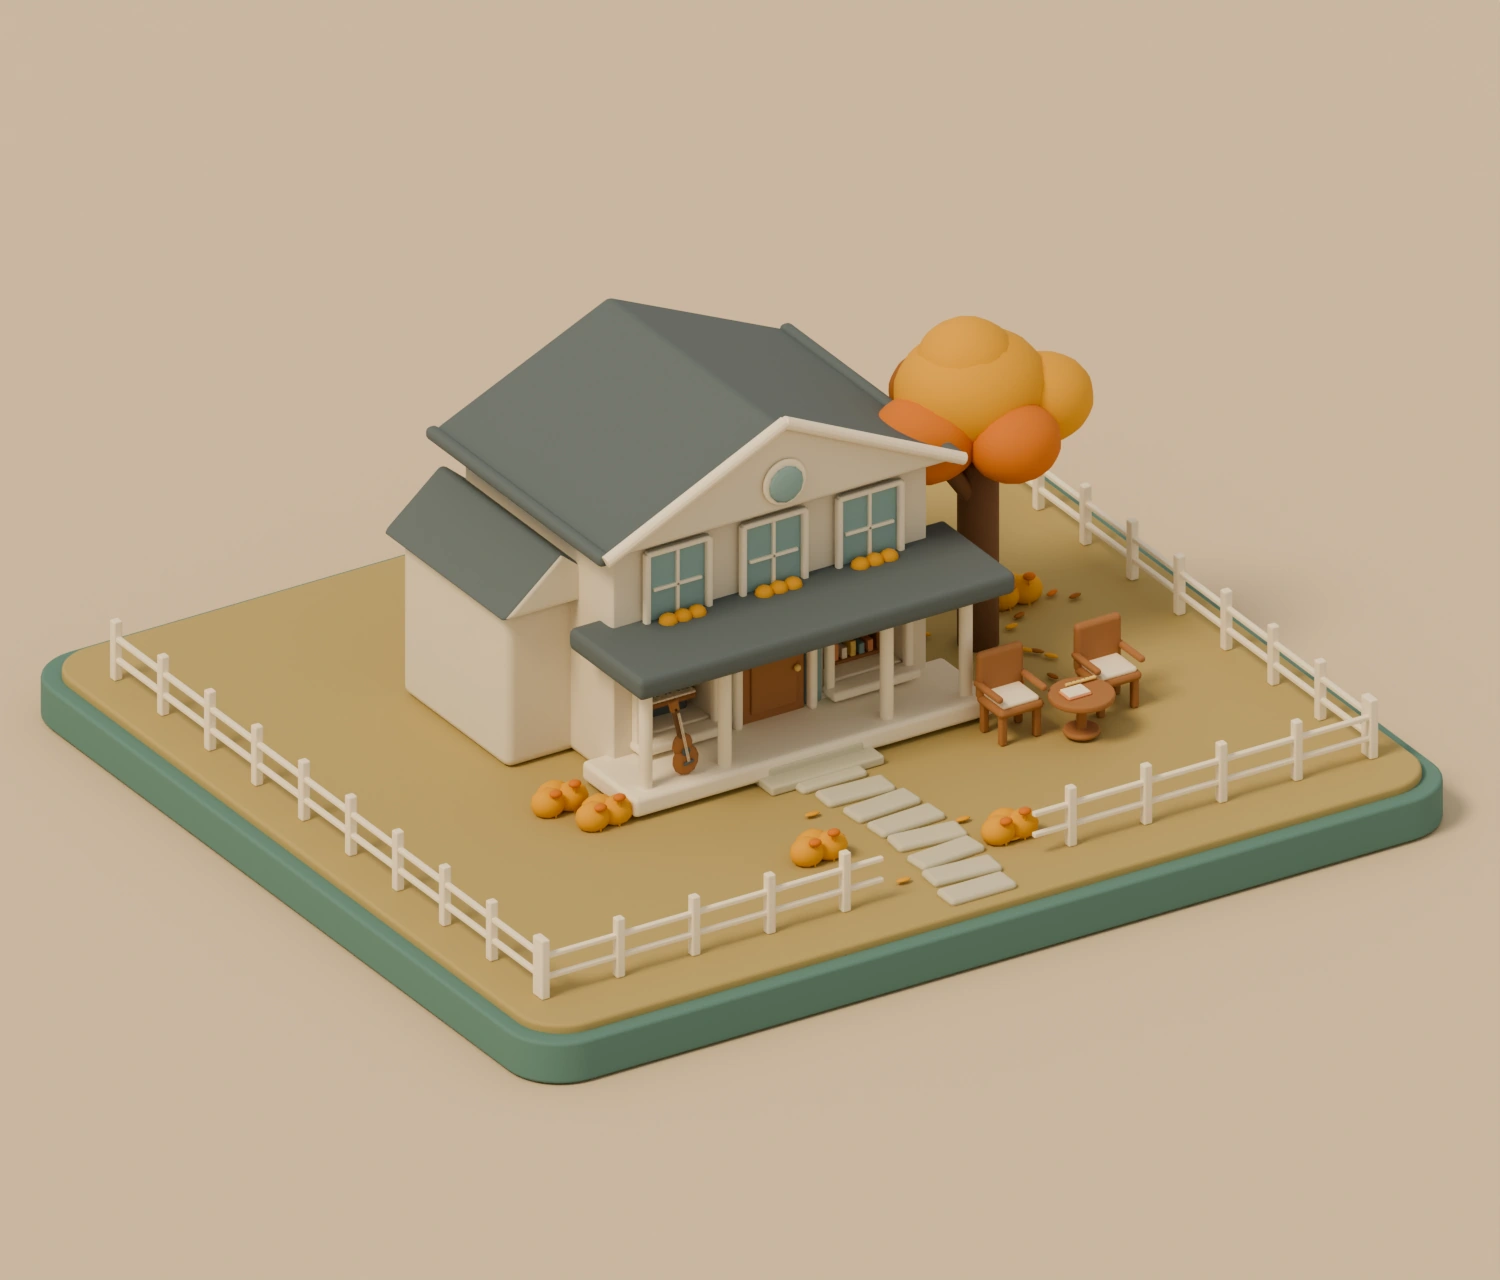
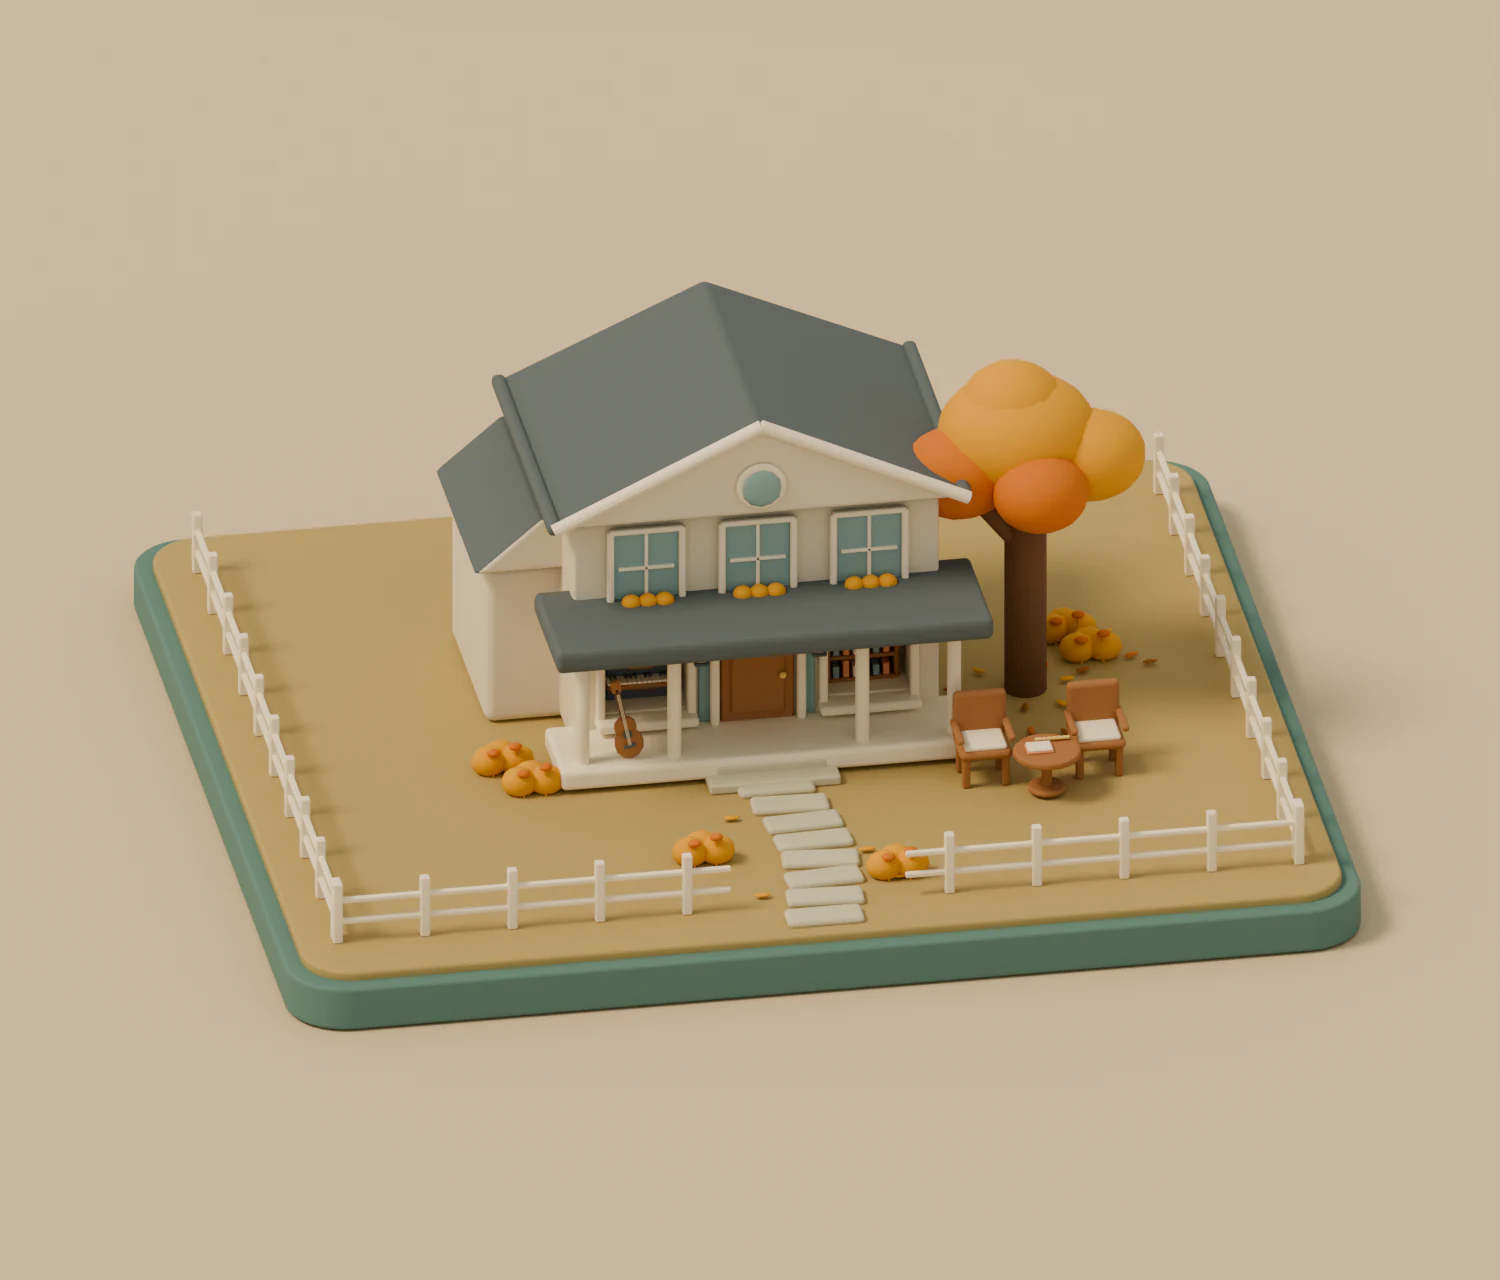
Update seasonal experience, interactions and responsive design

Changed region(s): [[0.0, 0.2188, 0.9813, 0.875]]

diff --git a/motion.css b/motion.css
@@ -1,7 +1,7 @@
 /* Low-amplitude motion; all layout dimensions remain in index.html. */
 .page{transition:color .7s ease;isolation:isolate}.ambient-layer{position:absolute;inset:0;z-index:0;pointer-events:none}.copy,.top,.controls,.foot{transition:color .7s ease}.visual{transform:translate(var(--px,0px),var(--py,0px));transition:transform 1.4s cubic-bezier(.2,.6,.25,1)}
 .house-breath{position:relative;width:100%;height:100%;animation:house-breath 9s ease-in-out infinite}.house-breath>#house{position:absolute;inset:0}.tree-breeze{position:absolute;inset:0;pointer-events:none;transform-origin:67% 43%;animation:tree-breeze 7.5s ease-in-out infinite;mask-image:radial-gradient(ellipse 10% 12% at 66.5% 30%,#000 58%,transparent 95%);-webkit-mask-image:radial-gradient(ellipse 10% 12% at 66.5% 30%,#000 58%,transparent 95%)}.visual .tree-breeze img{mask-image:none;-webkit-mask-image:none;width:100%;height:100%}
-.window-glow{position:absolute;inset:0;pointer-events:none;mix-blend-mode:screen;animation:window-breath 8s ease-in-out infinite;opacity:.045;background:radial-gradient(ellipse 1.5% 2.4% at 45% 45.4%,#ffc574 0,transparent 100%),radial-gradient(ellipse 1.5% 2.4% at 51.4% 43.2%,#ffd18c 0,transparent 100%),radial-gradient(ellipse 1.5% 2.4% at 57.8% 41%,#ffd18c 0,transparent 100%),radial-gradient(ellipse 1.2% 1.4% at 52.4% 37.8%,#ffd18c 0,transparent 100%)}.page.day .window-glow{display:none}.page.sunset .window-glow{animation-name:window-breath-dusk}
+.window-glow{position:absolute;inset:0;pointer-events:none;mix-blend-mode:screen;animation:window-breath 8s ease-in-out infinite;opacity:.045;background:radial-gradient(ellipse 1.5% 2.4% at var(--window-1-x,45%) var(--window-1-y,45.4%),#ffc574 0,transparent 100%),radial-gradient(ellipse 1.5% 2.4% at var(--window-2-x,51.4%) var(--window-2-y,43.2%),#ffd18c 0,transparent 100%),radial-gradient(ellipse 1.5% 2.4% at var(--window-3-x,57.8%) var(--window-3-y,41%),#ffd18c 0,transparent 100%),radial-gradient(ellipse 1.2% 1.4% at var(--window-round-x,52.4%) var(--window-round-y,37.8%),#ffd18c 0,transparent 100%)}.page.day .window-glow{display:none}.page.sunset .window-glow{animation-name:window-breath-dusk}
 .weather-layer{position:absolute;inset:8% 4% 13% 15%;z-index:4;overflow:hidden;pointer-events:none;opacity:0;transition:opacity .7s ease}.weather-layer.is-on{opacity:1}.weather-tint{position:absolute;inset:0;z-index:0;pointer-events:none;background:linear-gradient(115deg,rgba(22,39,53,.13),rgba(30,55,68,.08));opacity:0;transition:opacity .8s ease}.page.weather-on.weather-summer .weather-tint{opacity:1}.weather-particle{position:absolute;left:var(--left);top:var(--top);opacity:0;animation-delay:var(--delay);animation-duration:var(--duration);animation-iteration-count:infinite;animation-timing-function:linear}
 .weather-particle.petal{width:var(--size);height:var(--size);background:var(--petal);clip-path:polygon(50% 100%,16% 68%,5% 38%,18% 11%,39% 19%,50% 2%,61% 19%,82% 11%,95% 38%,84% 68%);filter:drop-shadow(0 1px 2px rgba(57,31,48,.2));animation-name:petal-fall}.weather-particle.rain{width:1.5px;height:28px;border-radius:2px;background:linear-gradient(to bottom,transparent,rgba(203,225,236,.72));transform:rotate(8deg);animation-name:rain-fall}.weather-particle.leaf{width:9px;height:5px;border-radius:85% 12% 82% 16%;background:var(--leaf);box-shadow:inset -2px 0 rgba(104,61,34,.18);animation-name:leaf-fall}.weather-particle.snow{font-family:Georgia,serif;font-size:var(--size);line-height:1;color:rgba(245,249,252,.82);text-shadow:0 0 5px rgba(225,239,250,.28);animation-name:snow-fall}.glass-drops{position:absolute;inset:0;opacity:0;background:radial-gradient(ellipse 3px 6px at 19% 24%,rgba(222,240,247,.28),transparent 75%),radial-gradient(ellipse 2px 5px at 38% 63%,rgba(222,240,247,.22),transparent 76%),radial-gradient(ellipse 3px 7px at 61% 31%,rgba(222,240,247,.25),transparent 76%),radial-gradient(ellipse 2px 5px at 78% 69%,rgba(222,240,247,.2),transparent 76%),radial-gradient(ellipse 3px 8px at 91% 42%,rgba(222,240,247,.22),transparent 76%);filter:drop-shadow(0 1px 1px rgba(207,232,242,.16));animation:glass-breathe 5.5s ease-in-out infinite}.weather-layer.summer .glass-drops{opacity:1}
 @keyframes house-breath{0%,100%{transform:translateY(0)}50%{transform:translateY(-2.5px)}}

diff --git a/interactions.js b/interactions.js
@@ -14,15 +14,30 @@ const guitarSounds={
 };
 const guitarVolume=.2;
 
+// Interaction overlays follow the camera assigned to each season. Values are
+// normalized against the 1500 × 1280 render and remain unchanged across time.
+const scenePoints={
+  spring:{guitar:[.455,.62],lamp:[.526,.545],window:[.555,.405],shelf:[.585,.535],table:[.7,.55],shelfCard:[.655,.46],note:[.7,.465],whisper:[.59,.47]},
+  summer:{guitar:[.393,.588],lamp:[.499,.548],window:[.547,.436],shelf:[.595,.562],table:[.63,.626],shelfCard:[.665,.487],note:[.63,.541],whisper:[.582,.501]},
+  autumn:{guitar:[.417,.606],lamp:[.513,.548],window:[.556,.422],shelf:[.595,.549],table:[.676,.593],shelfCard:[.665,.474],note:[.676,.508],whisper:[.591,.487]},
+  winter:{guitar:[.403,.598],lamp:[.506,.548],window:[.553,.429],shelf:[.596,.556],table:[.655,.611],shelfCard:[.666,.481],note:[.655,.526],whisper:[.588,.494]}
+};
+const pointTargets={guitar:'.guitar-hotspot',lamp:'.porch-light,.lamp-hotspot',window:'.window-warmth,.window-hotspot',shelf:'.shelf-book,.shelf-hotspot',table:'.table-book,.table-book-hotspot',shelfCard:'.shelf-secret',note:'.bookmark-note'};
+function applyScenePoints(){
+  const points=scenePoints[season]||scenePoints.spring;
+  Object.entries(pointTargets).forEach(([key,selector])=>document.querySelectorAll(selector).forEach(el=>{el.dataset.sceneX=points[key][0];el.dataset.sceneY=points[key][1]}));
+  return points;
+}
+
 function placeSceneControls(){
   const width=breath.clientWidth,height=breath.clientHeight;if(!width||!height||!house.naturalWidth)return;
   const imageRatio=house.naturalWidth/house.naturalHeight,boxRatio=width/height;
   let shownWidth,shownHeight,offsetX,offsetY;
   if(boxRatio>imageRatio){shownHeight=height;shownWidth=height*imageRatio;offsetX=(width-shownWidth)/2;offsetY=0}else{shownWidth=width;shownHeight=width/imageRatio;offsetX=0;offsetY=(height-shownHeight)/2}
   positioned.forEach(el=>{el.style.left=`${offsetX+Number(el.dataset.sceneX)*shownWidth}px`;el.style.top=`${offsetY+Number(el.dataset.sceneY)*shownHeight}px`});
-  whisper.style.left=`${offsetX+.59*shownWidth}px`;whisper.style.top=`${offsetY+.47*shownHeight}px`;
+  const points=scenePoints[season]||scenePoints.spring;whisper.style.left=`${offsetX+points.whisper[0]*shownWidth}px`;whisper.style.top=`${offsetY+points.whisper[1]*shownHeight}px`;
 }
-house.addEventListener('load',placeSceneControls);addEventListener('resize',placeSceneControls,{passive:true});requestAnimationFrame(placeSceneControls);
+applyScenePoints();house.addEventListener('load',placeSceneControls);addEventListener('resize',placeSceneControls,{passive:true});requestAnimationFrame(placeSceneControls);
 
 backgroundMusic.volume=.18;guitarSound.volume=guitarVolume;
 let musicOn=false;let remembered=false;try{remembered=sessionStorage.getItem('ourCottageMusic')==='on'}catch{}
@@ -61,6 +76,7 @@ let whisperTimer=0;windowButton.addEventListener('click',()=>{
   whisperTimer=setTimeout(()=>{root.classList.remove('window-awake');whisper.classList.remove('show')},3200);
 });
 root.addEventListener('cottage:statechange',event=>{
+  applyScenePoints();requestAnimationFrame(placeSceneControls);
   clearTimeout(whisperTimer);root.classList.remove('window-awake');whisper.classList.remove('show');
   if(event.detail.season!==knownSeason){knownSeason=event.detail.season;stopGuitar()}
 });

diff --git a/living-transitions.css b/living-transitions.css
@@ -23,6 +23,12 @@
 .page.season-autumn.night{background:radial-gradient(ellipse at 81% 68%,#483b52 0,transparent 59%),linear-gradient(115deg,#201b29,#2b2232 54%,#3d2b38);--muted:#b8a9b5;--accent:#eac18c;--halo-core:rgba(255,176,75,.28);--halo-back:rgba(104,70,89,.22)}
 .page.season-winter.night{background:radial-gradient(ellipse at 81% 68%,#27425e 0,transparent 59%),linear-gradient(115deg,#111c30,#14253d 55%,#1b3048);--muted:#a7b7c9;--accent:#f0cfa1;--halo-core:rgba(255,183,78,.29);--halo-back:rgba(72,111,151,.25)}
 
+/* Screen-space window positions follow each season's approved camera. */
+.page.season-spring{--window-1-x:45%;--window-1-y:45.4%;--window-2-x:51.4%;--window-2-y:43.2%;--window-3-x:57.8%;--window-3-y:41%;--window-round-x:52.4%;--window-round-y:37.8%}
+.page.season-summer{--window-1-x:42.1%;--window-1-y:42.7%;--window-2-x:49.6%;--window-2-y:43.4%;--window-3-x:57%;--window-3-y:44.1%;--window-round-x:49.8%;--window-round-y:38.3%}
+.page.season-autumn{--window-1-x:43%;--window-1-y:44.1%;--window-2-x:50.5%;--window-2-y:43.4%;--window-3-x:57.9%;--window-3-y:42.7%;--window-round-x:50.2%;--window-round-y:38.1%}
+.page.season-winter{--window-1-x:42.5%;--window-1-y:43.4%;--window-2-x:50%;--window-2-y:43.4%;--window-3-x:57.5%;--window-3-y:43.4%;--window-round-x:50%;--window-round-y:38.2%}
+
 .ambient-layer{background:transparent;opacity:0;will-change:opacity}
 .ambient-halo{position:absolute;inset:9% 2% 8% 9%;z-index:0;pointer-events:none;background:radial-gradient(ellipse 34% 18% at 57% 69%,var(--halo-core),transparent 76%),radial-gradient(ellipse 47% 35% at 57% 48%,var(--halo-back),transparent 78%),radial-gradient(ellipse 40% 11% at 57% 79%,var(--halo-ground),transparent 78%);filter:blur(17px);opacity:.86;transition:background 1.55s ease-in-out,opacity 1.55s ease-in-out,filter 1.55s ease-in-out;will-change:opacity,filter}
 .page.sunset .ambient-halo{opacity:.96;filter:blur(19px)}

diff --git a/README.md b/README.md
@@ -4,6 +4,8 @@
 
 状态切换的视觉节奏集中在 `motion.js` 顶部的 `TRANSITION` 参数中；四季 × 三时段的背景与小屋环境光晕集中在 `living-transitions.css`，便于继续微调而不影响页面结构。
 
+季节机位固定为：Spring → `Hero_View`、Summer → `Right_3Q`、Autumn → `Left_3Q`、Winter → `Center_Front`。Day / Sunset / Night 只更换同机位下的光照素材，不改变视角；序章继续使用 `Hero_View`。
+
 ## 本地预览
 
 直接打开 `index.html` 可以预览。为了模拟线上部署，建议在本目录启动任意静态文件服务器，然后访问根路径。
